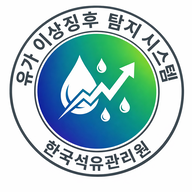
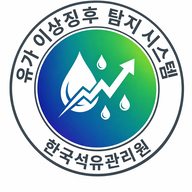
Task #26: 로그인 모바일 최종 디자인 + PWA 아이콘 트림
Changes:
1. PWA icons: Trimmed white margins from IMG_6860 circular badge icon
   using ImageMagick (-trim +repage), resized to 192x192, 512x512, 64x64
   → client/public/icon-192.png, icon-512.png, favicon.png

2. Login mobile header: Changed from vertical center layout to horizontal
   icon(left)+title(right) layout using flex row items-center gap-4.
   Icon: imported file_1773328850418_1773332426820.jpeg (blue-green gradient
   oil drops + chart app icon), w-20 h-20, rounded-2xl.
   Title: "유가 이상징후 탐지 시스템", text-2xl font-bold, natural line wrap.

3. Username input: Added lucide-react User icon (absolute positioned left)
   with pl-10 padding on input, placeholder changed to "아이디(ID)".

4. Green rounded button kept as-is (already implemented in Task #25).

Files modified:
- client/src/pages/login.tsx (import loginIconSrc + User icon, header layout, input)
- client/public/icon-192.png (trimmed + resized)
- client/public/icon-512.png (trimmed + resized)
- client/public/favicon.png (trimmed + resized)

diff --git a/client/src/pages/login.tsx b/client/src/pages/login.tsx
@@ -4,9 +4,10 @@ import { useAuth } from "@/hooks/use-auth";
 import { Button } from "@/components/ui/button";
 import { Input } from "@/components/ui/input";
 import { Label } from "@/components/ui/label";
-import { Shield, Eye, EyeOff, Loader2, ArrowLeft, KeyRound, TrendingUp, TrendingDown } from "lucide-react";
+import { Shield, Eye, EyeOff, Loader2, ArrowLeft, KeyRound, TrendingUp, TrendingDown, User } from "lucide-react";
 import { useToast } from "@/hooks/use-toast";
 import kpetroCiSrc from "@assets/kpetro-ci.png";
+import loginIconSrc from "@assets/file_1773328850418_1773332426820.jpeg";
 
 type Step = "username" | "password" | "setup-password";
 
@@ -258,15 +259,17 @@ export default function LoginPage() {
 
       {/* 오른쪽 로그인 패널 */}
       <div className="flex-1 flex flex-col lg:items-center lg:justify-center bg-white">
-        {/* 모바일 전용 상단: KPetro CI + 앱 아이콘 + 제목 */}
-        <div className="lg:hidden flex flex-col items-center px-8 pt-10 pb-0">
-          <div className="w-full mb-10">
+        {/* 모바일 전용 상단: KPetro CI + 아이콘(좌)+제목(우) */}
+        <div className="lg:hidden px-8 pt-10 pb-0">
+          <div className="mb-12">
             <img src={kpetroCiSrc} alt="한국석유관리원" className="h-9 object-contain" data-testid="img-kpetro-ci-login" />
           </div>
-          <img src="/icon-192.png" alt="앱 아이콘" className="w-28 h-28 rounded-2xl mb-5" data-testid="img-app-icon-login" />
-          <h1 className="text-2xl font-bold text-center text-foreground leading-snug mb-10">
-            유가 이상징후<br />탐지 시스템
-          </h1>
+          <div className="flex items-center gap-4 mb-10">
+            <img src={loginIconSrc} alt="앱 아이콘" className="w-20 h-20 rounded-2xl flex-shrink-0" data-testid="img-app-icon-login" />
+            <h1 className="text-2xl font-bold text-foreground leading-snug">
+              유가 이상징후 탐지 시스템
+            </h1>
+          </div>
         </div>
 
         <div className="w-full lg:max-w-sm px-8 lg:px-0 pb-10 lg:pb-0">
@@ -281,18 +284,21 @@ export default function LoginPage() {
               <form onSubmit={handleUsernameSubmit} className="space-y-4">
                 <div className="space-y-1.5">
                   <Label htmlFor="username" className="text-sm font-medium">아이디(ID)</Label>
-                  <Input
-                    id="username"
-                    type="text"
-                    placeholder=""
-                    value={username}
-                    onChange={(e) => setUsername(e.target.value)}
-                    required
-                    autoFocus
-                    autoComplete="username"
-                    data-testid="input-username"
-                    className="h-11"
-                  />
+                  <div className="relative">
+                    <User className="absolute left-3 top-1/2 -translate-y-1/2 w-4 h-4 text-muted-foreground pointer-events-none" />
+                    <Input
+                      id="username"
+                      type="text"
+                      placeholder="아이디(ID)"
+                      value={username}
+                      onChange={(e) => setUsername(e.target.value)}
+                      required
+                      autoFocus
+                      autoComplete="username"
+                      data-testid="input-username"
+                      className="h-11 pl-10"
+                    />
+                  </div>
                 </div>
                 <Button type="submit" className="w-full h-12 font-semibold rounded-full !bg-green-600 hover:!bg-green-700 !text-white" disabled={checkUserPending} data-testid="button-next">
                   {checkUserPending ? <Loader2 className="w-4 h-4 animate-spin mr-2" /> : null}
